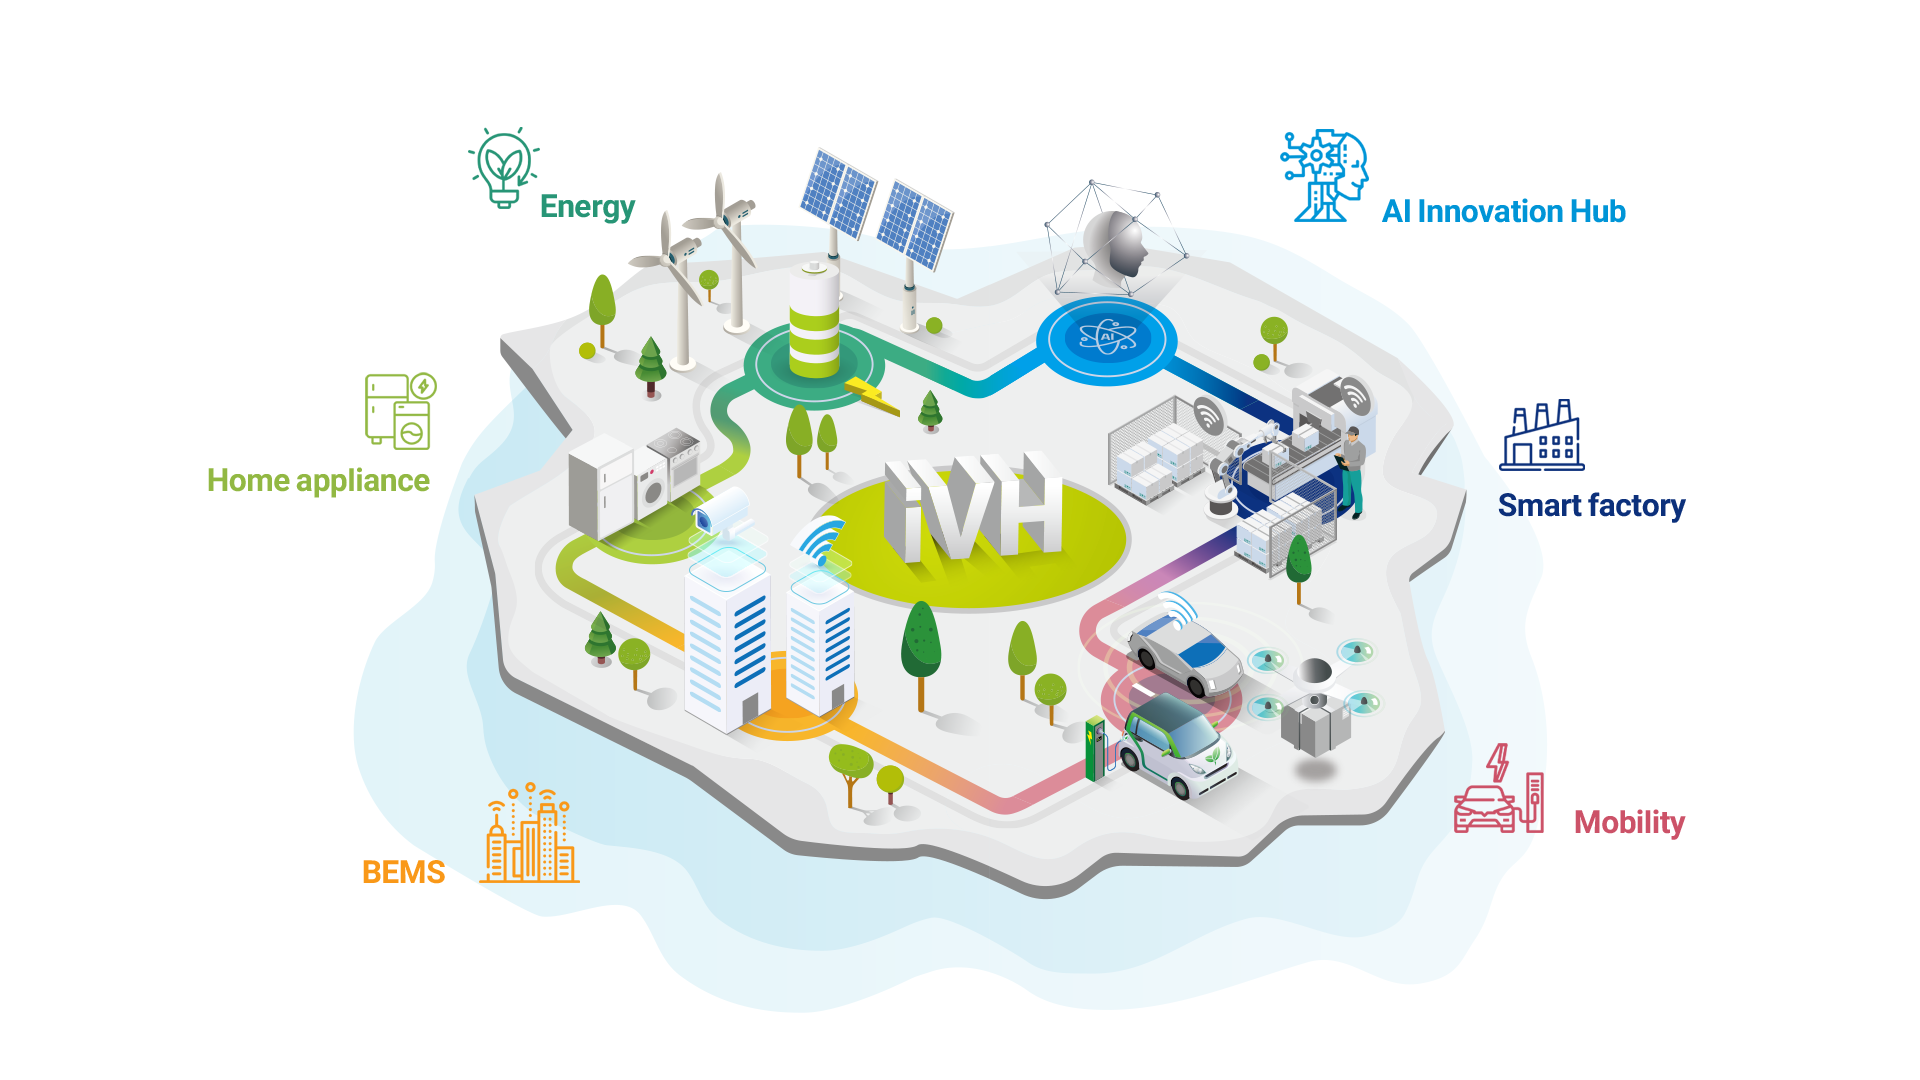
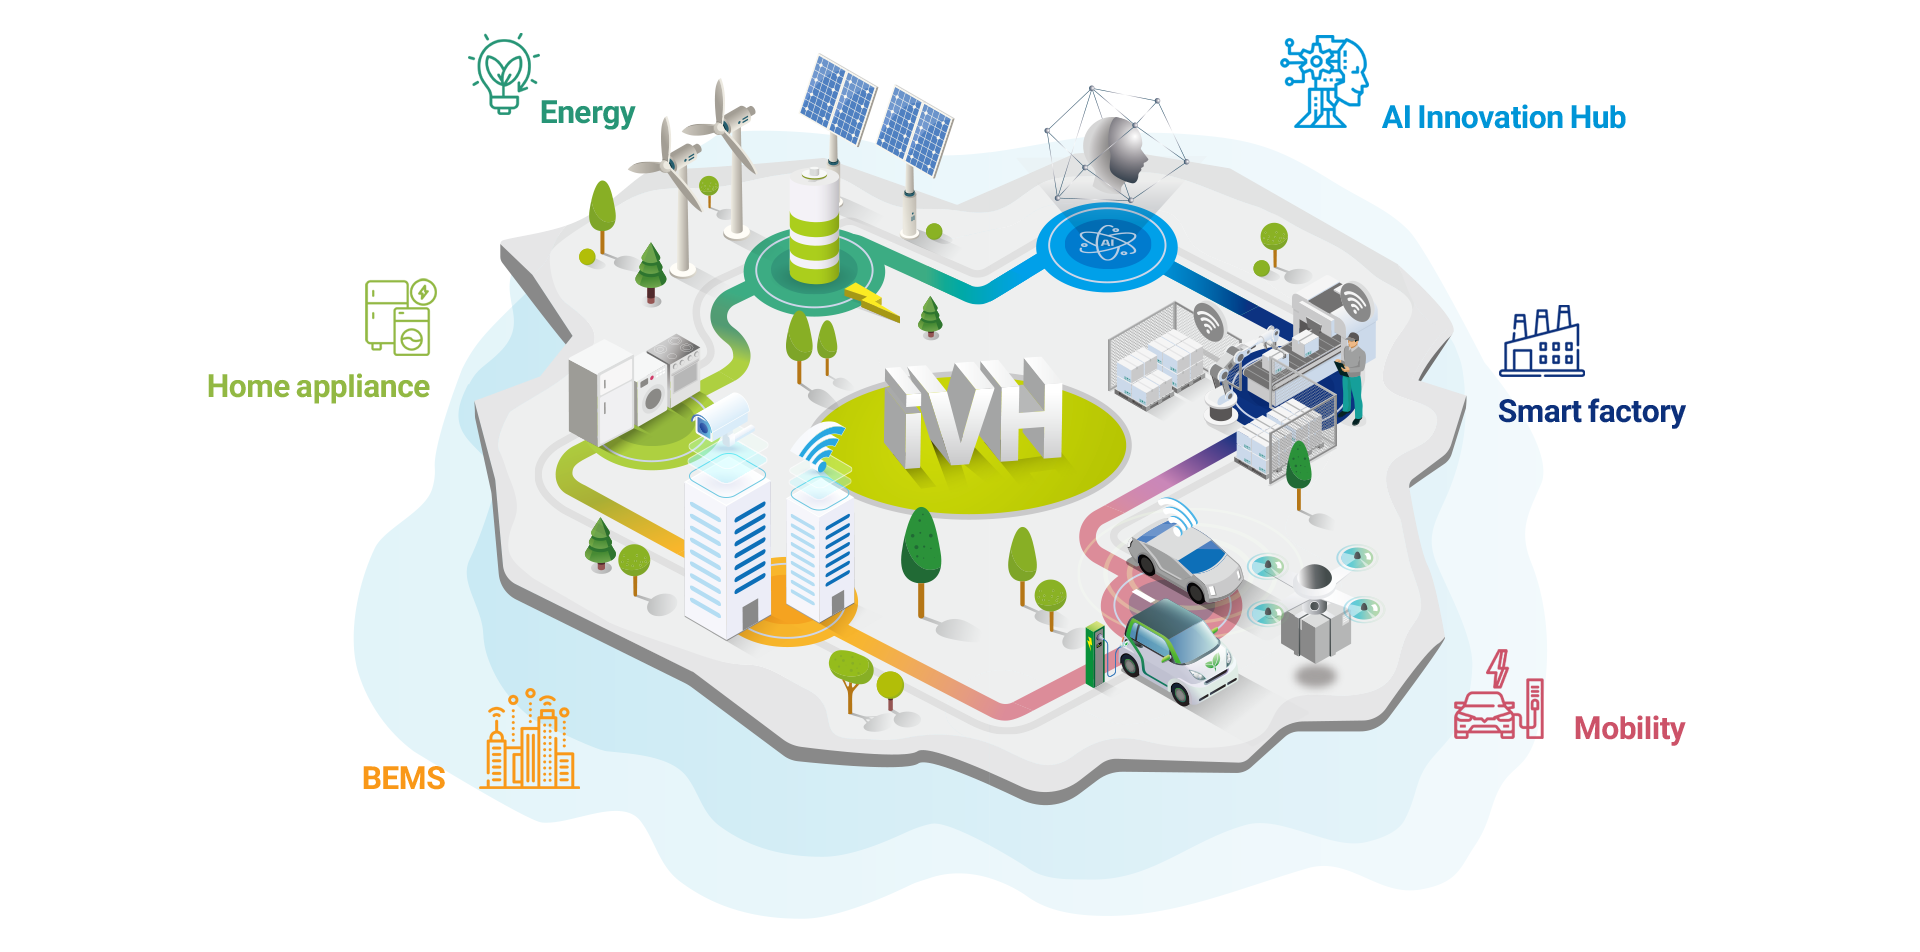
ui: solution energy page 구현중 #6

diff --git a/src/pages/solution/Energy.tsx b/src/pages/solution/Energy.tsx
@@ -1,0 +1,52 @@
+import SolutionHeader from "../../components/solution/SolutionHeader";
+import "../../style/solution.css";
+import header from "../../data/solution/header.json";
+import body from "../../data/solution/body.json";
+import TextBox from "../../components/solution/TextBox";
+import { Box } from "@mui/material";
+import useSolutionClass from "../../hooks/useSolutionClass";
+import TextImageBox from "../../components/solution/TextImageBox";
+
+const Energy = () => {
+  const { headerTitle, subtitle, color } = header.energy;
+  const { outlineTitle, outlineContents } = body.energy.outline;
+  const { technicalBackgroundTitle, technicalBackgroundContents } =
+    body.energy.technicalBackground;
+  const { marketTrendTitle, marketTrendContents } = body.energy.marketTrend;
+  const { systemArchitectureTitle, systemArchitectureImgUrl } =
+    body.energy.systemArchitecture;
+
+  useSolutionClass("solution-body");
+
+  return (
+    <>
+      {/* header section */}
+      <SolutionHeader title={headerTitle} subtitle={subtitle} color={color} />
+      {/* body section */}
+      <Box component="main">
+        {/* 개요 */}
+        <TextBox
+          title={outlineTitle}
+          contents={outlineContents}
+          marginTop={8}
+        />
+        {/* 기술적 배경 */}
+        <TextBox
+          title={technicalBackgroundTitle}
+          contents={technicalBackgroundContents}
+        />
+        {/* 시장 동향 및 필요성 */}
+        <TextBox title={marketTrendTitle} contents={marketTrendContents} />
+        {/* 시스템 아키텍처 */}
+        <TextImageBox
+          title={systemArchitectureTitle}
+          imgurl={[systemArchitectureImgUrl]}
+          width="1200px"
+          height="700px"
+        />
+      </Box>
+    </>
+  );
+};
+
+export default Energy;

diff --git a/src/components/solution/TextImageBox.tsx b/src/components/solution/TextImageBox.tsx
@@ -1,0 +1,66 @@
+import { Box, Typography } from "@mui/material";
+import type { TextImageBoxProps } from "../../types/solution";
+
+const TextImageBox = (textImageBoxProps: TextImageBoxProps) => {
+  const { title, contents, imgurl, width, height } = textImageBoxProps;
+
+  return (
+    <Box
+      sx={{
+        display: "flex",
+        flexDirection: "column",
+        alignItems: "flex-start",
+        justifyContent: "flex-start",
+        mt: 5,
+      }}
+    >
+      <Typography
+        sx={{
+          fontFamily: "Freesentation-7-Bold",
+          fontSize: "16px",
+          fontWeight: "bold",
+        }}
+      >
+        {title}
+      </Typography>
+      {contents && (
+        <Typography
+          sx={{
+            fontFamily: "Freesentation-5-Medium",
+            fontSize: "13px",
+            mt: 1.5,
+          }}
+        >
+          {contents.map((content, index) => {
+            const isSection = /^[A-Z]\.\s/.test(content);
+            console.log("isSection : ", isSection);
+            console.log("content : ", content);
+            return (
+              <Typography
+                key={index}
+                component="div"
+                sx={{ mt: isSection && index !== 0 ? 2 : 0 }}
+              >
+                {content}
+              </Typography>
+            );
+          })}
+        </Typography>
+      )}
+      {imgurl.map((img, index) => {
+        const resolvedSrc = new URL(img, import.meta.url).href;
+        return (
+          <img
+            src={resolvedSrc}
+            alt={title}
+            key={index}
+            width={width}
+            height={height}
+          />
+        );
+      })}
+    </Box>
+  );
+};
+
+export default TextImageBox;

diff --git a/src/components/solution/SolutionHeader.tsx b/src/components/solution/SolutionHeader.tsx
@@ -1,0 +1,51 @@
+import type { ContentProps } from "../../types/solution";
+import { Box, Typography } from "@mui/material";
+
+const SolutionHeader = (contentProps: ContentProps) => {
+  const { title, subtitle, color } = contentProps;
+  return (
+    <>
+      <Box component="header">
+        <Box
+          sx={{
+            display: "flex",
+            flexDirection: "column",
+            alignItems: "flex-start",
+            justifyContent: "flex-start",
+            borderBottom: `1px solid ${color}`,
+            mb: 1.5,
+            pb: 1.5,
+          }}
+        >
+          <Typography
+            variant="h1"
+            sx={{
+              fontFamily: "Freesentation-8-ExtraBold",
+              fontSize: "23px",
+              fontWeight: "bold",
+              color,
+              letterSpacing: "4px",
+            }}
+          >
+            {title}
+          </Typography>
+        </Box>
+        <Box>
+          <Typography
+            variant="subtitle1"
+            sx={{
+              fontFamily: "Freesentation-6-SemiBold",
+              fontSize: "19px",
+              fontWeight: "bold",
+            }}
+            color={"#3b4551"}
+          >
+            {subtitle}
+          </Typography>
+        </Box>
+      </Box>
+    </>
+  );
+};
+
+export default SolutionHeader;

diff --git a/src/components/solution/TextBox.tsx b/src/components/solution/TextBox.tsx
@@ -1,0 +1,39 @@
+import { Box, Typography } from "@mui/material";
+import type { TextBoxProps } from "../../types/solution";
+
+const TextBox = (textBoxProps: TextBoxProps) => {
+  const { title, contents, imgurl, marginTop } = textBoxProps;
+  return (
+    <Box
+      sx={{
+        display: "flex",
+        flexDirection: "column",
+        alignItems: "flex-start",
+        justifyContent: "flex-start",
+        mt: marginTop ? marginTop : 5,
+      }}
+    >
+      <Typography
+        sx={{
+          fontFamily: "Freesentation-7-Bold",
+          fontSize: "16px",
+          fontWeight: "bold",
+        }}
+      >
+        {title}
+      </Typography>
+      <Typography
+        sx={{
+          fontFamily: "Freesentation-5-Medium",
+          fontSize: "13px",
+          mt: 1.5,
+        }}
+      >
+        {contents}
+      </Typography>
+      {imgurl && <img src={imgurl} alt={title} />}
+    </Box>
+  );
+};
+
+export default TextBox;

diff --git a/src/components/solution/RowNav.tsx b/src/components/solution/RowNav.tsx
@@ -1,11 +1,14 @@
 import { Box, AppBar, Toolbar, Button } from "@mui/material";
 import { styled } from "@mui/material/styles";
+import { useNavigate } from "react-router-dom";
 
 interface StyledButtonProps {
   underlineColor: string;
 }
 
 const RowNav = () => {
+  const navigate = useNavigate();
+
   return (
     <Box
       component="nav"
@@ -28,7 +31,12 @@ const RowNav = () => {
         }}
       >
         <Toolbar sx={{ gap: 16 }} disableGutters>
-          <StyledButton underlineColor="#279576">Energy</StyledButton>
+          <StyledButton
+            underlineColor="#279576"
+            onClick={() => navigate("/solution/energy")}
+          >
+            Energy
+          </StyledButton>
           <StyledButton underlineColor="#f99818">BEMS</StyledButton>
           <StyledButton underlineColor="#cc5268">Mobility</StyledButton>
           <StyledButton underlineColor="#0c307b">Smart factory</StyledButton>

diff --git a/src/App.tsx b/src/App.tsx
@@ -2,6 +2,7 @@ import "./App.css";
 import { BrowserRouter, Routes, Route } from "react-router-dom";
 import Home from "./pages/home";
 import Solution from "./pages/solution";
+import Energy from "./pages/solution/Energy";
 
 function App() {
   return (
@@ -9,6 +10,7 @@ function App() {
       <Routes>
         <Route path="/" element={<Home />} />
         <Route path="/solution" element={<Solution />} />
+        <Route path="/solution/energy" element={<Energy />} />
       </Routes>
     </BrowserRouter>
   );

diff --git a/src/types/solution.ts b/src/types/solution.ts
@@ -1,0 +1,22 @@
+interface ContentProps {
+  title: string;
+  subtitle: string;
+  color: string;
+}
+
+interface TextBoxProps {
+  title: string;
+  contents: string;
+  imgurl?: string;
+  marginTop?: number;
+}
+
+interface TextImageBoxProps {
+  title: string;
+  contents?: string[];
+  imgurl: string[];
+  width: string;
+  height: string;
+}
+
+export type { ContentProps, TextBoxProps, TextImageBoxProps };

diff --git a/src/pages/solution.tsx b/src/pages/solution.tsx
@@ -1,5 +1,5 @@
 import { Box, Typography } from "@mui/material";
-import solutionImage from "../assets/images/pages/solution/solution_main2.png";
+import solutionImage from "../assets/images/pages/solution/solution_main.png";
 import Header from "../common/Header";
 import RowNav from "../components/solution/RowNav";
 

diff --git a/src/hooks/useSolutionClass.ts b/src/hooks/useSolutionClass.ts
@@ -1,0 +1,13 @@
+import { useEffect } from "react";
+
+const useSolutionClass = (className: string) => {
+  useEffect(() => {
+    document.body.classList.add(className);
+
+    return () => {
+      document.body.classList.remove(className);
+    };
+  }, []);
+};
+
+export default useSolutionClass;

diff --git a/src/style/solution.css b/src/style/solution.css
@@ -1,0 +1,4 @@
+.solution-body {
+  margin: 0;
+  padding: 50px 100px;
+}
